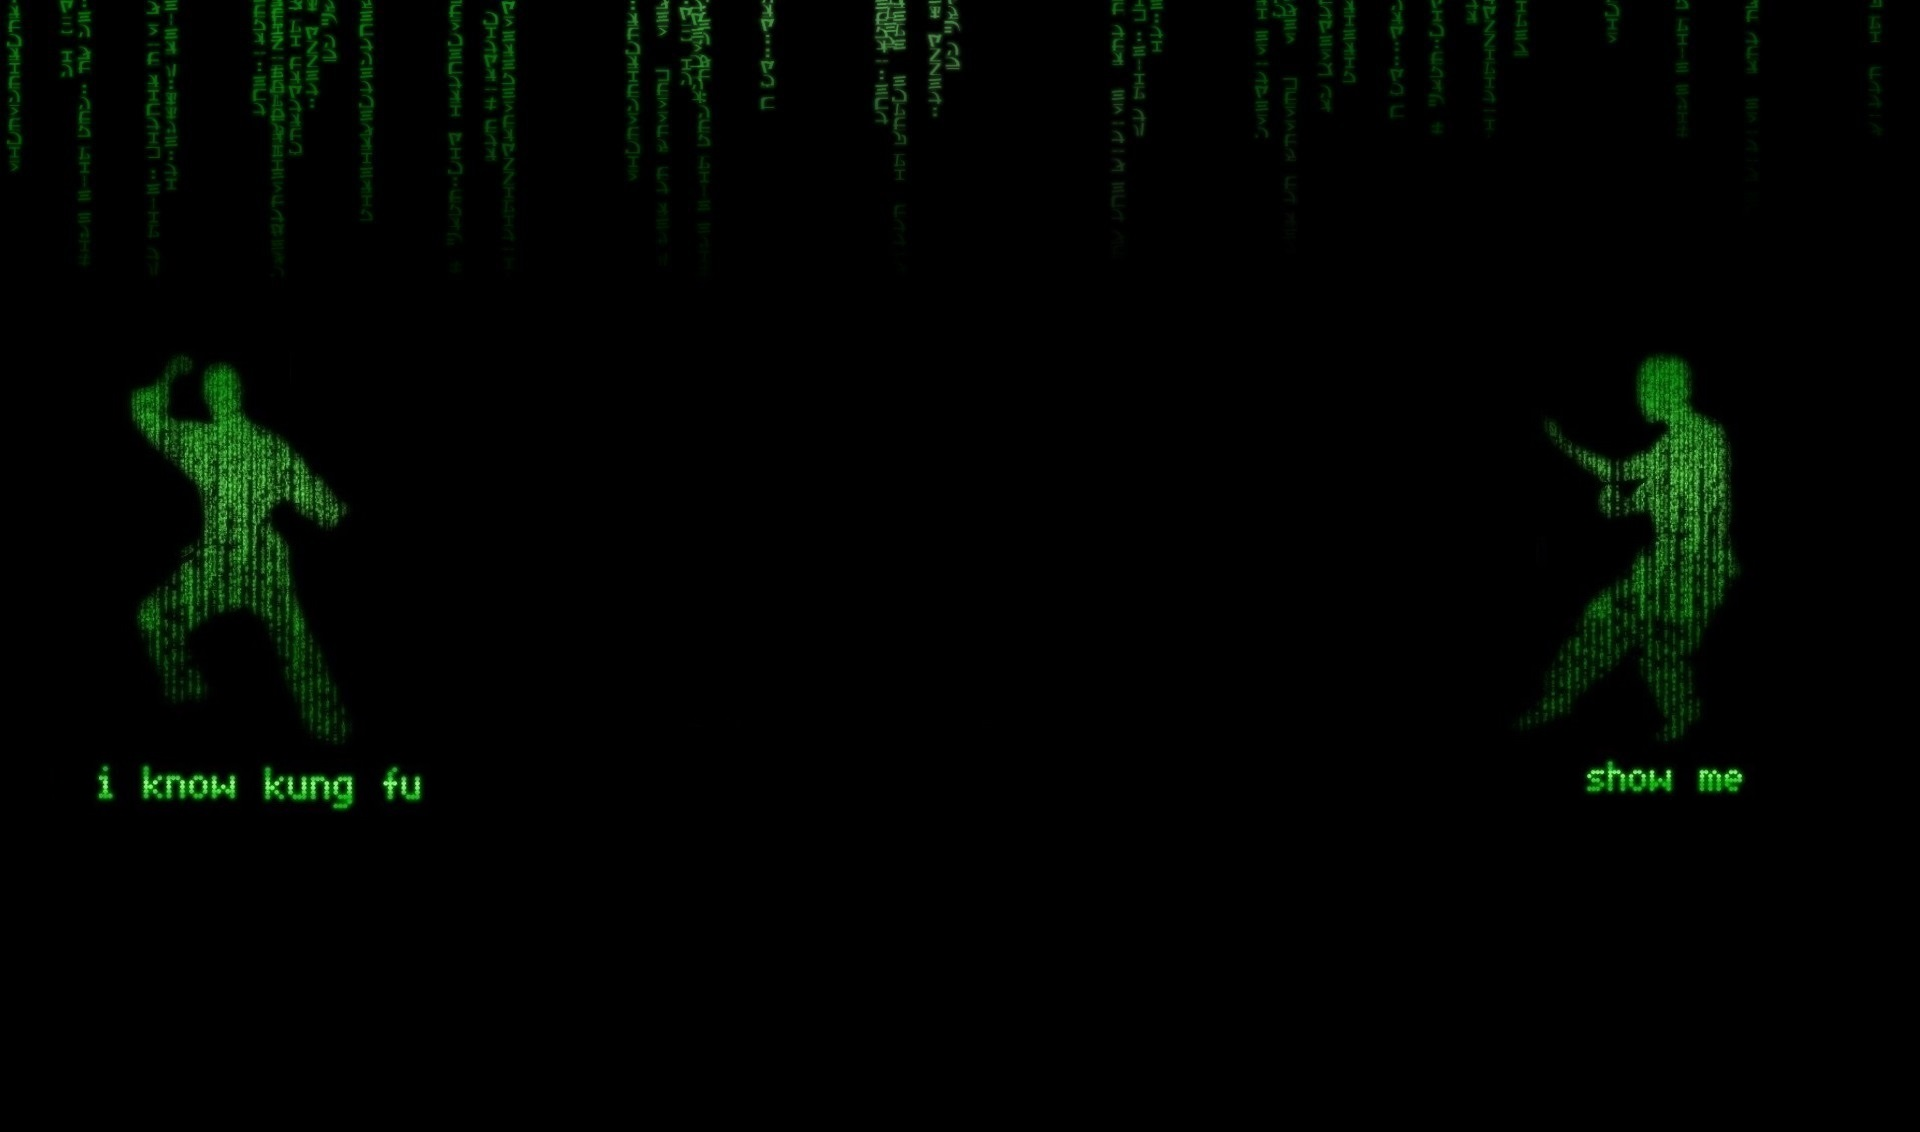
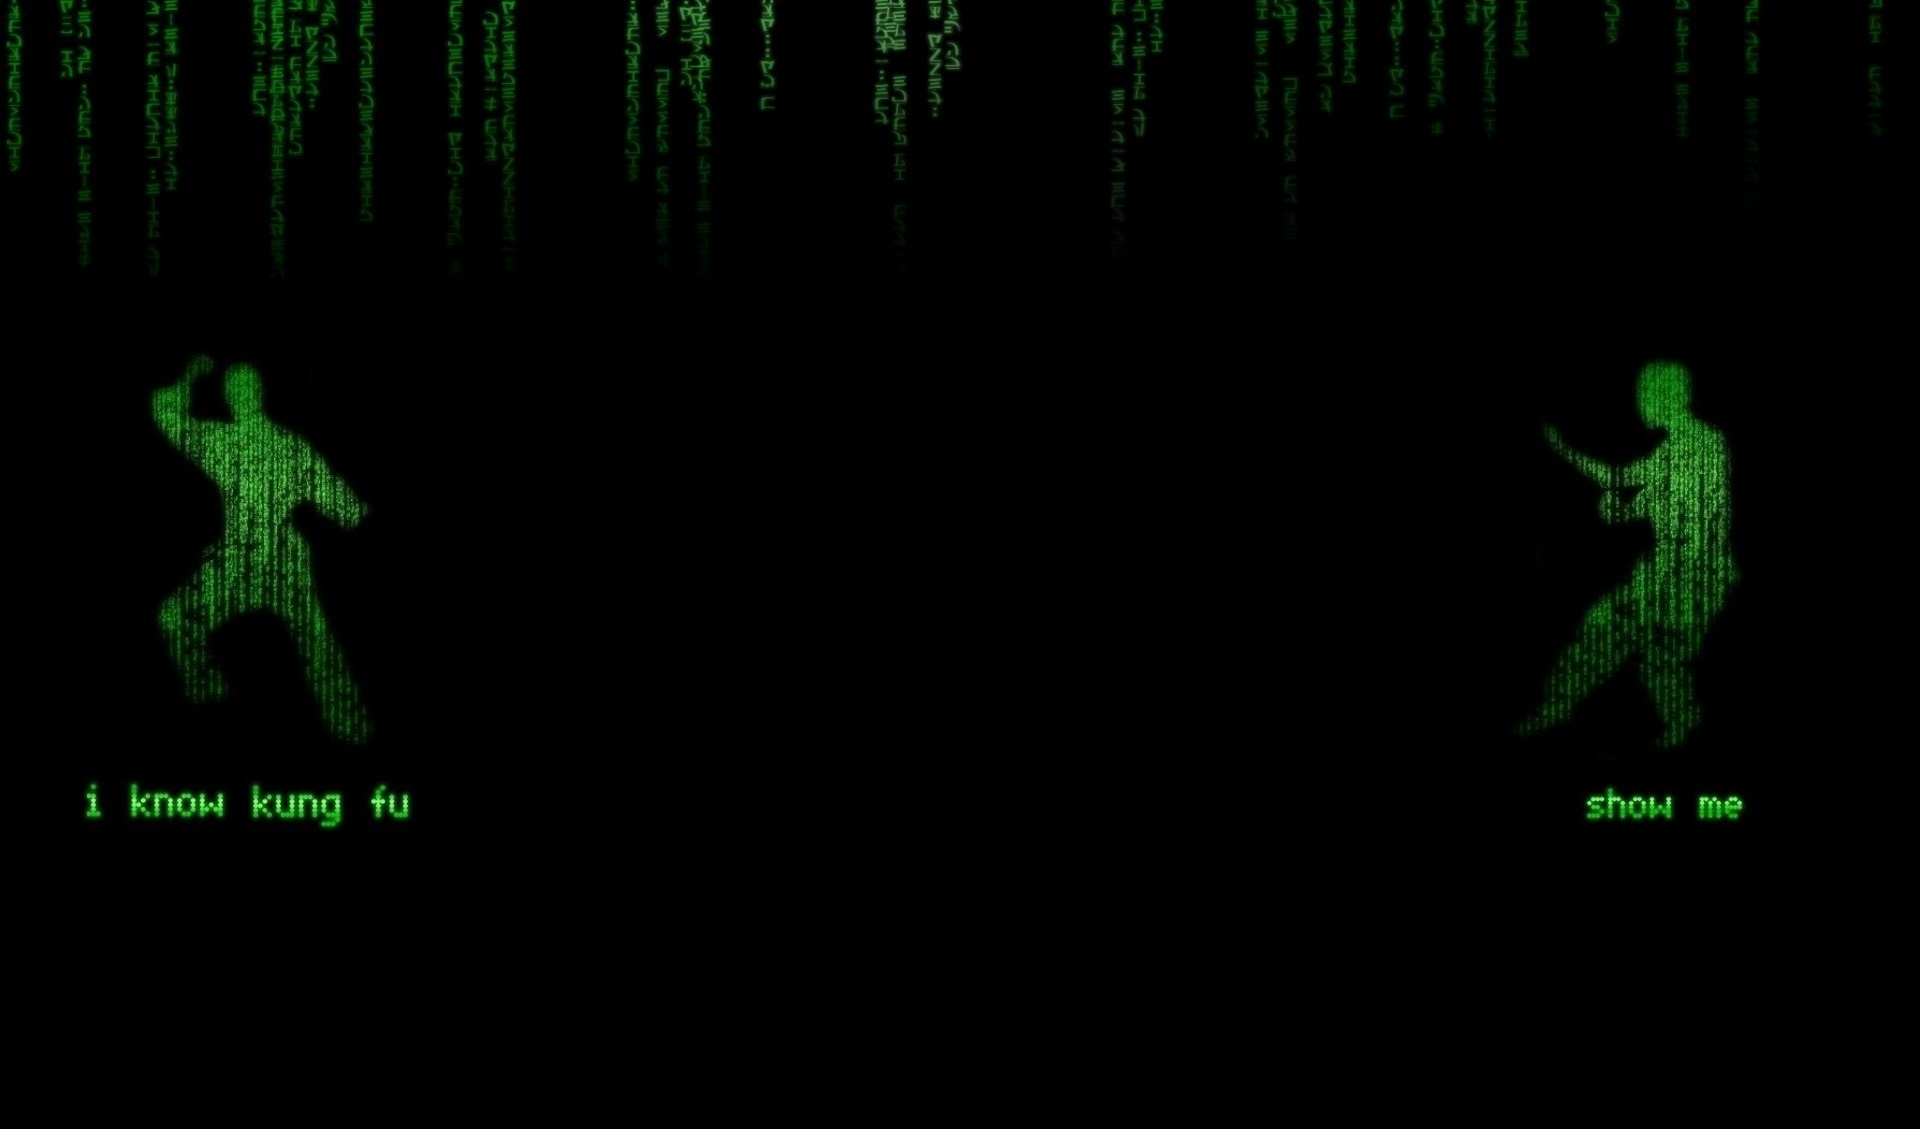
set timer and turn pages

diff --git a/index.html b/index.html
@@ -1,4 +1,4 @@
-<!-- Isaac Wu Crystal Collector Game -->
+<!-- Isaac Wu Trivia Game -->
 
 <!DOCTYPE html>
 <html>
@@ -20,8 +20,7 @@
     <script src="https://stackpath.bootstrapcdn.com/bootstrap/4.1.3/js/bootstrap.min.js" integrity="sha384-ChfqqxuZUCnJSK3+MXmPNIyE6ZbWh2IMqE241rYiqJxyMiZ6OW/JmZQ5stwEULTy"
         crossorigin="anonymous"></script>
     <!-- google fonts -->
-    <link href="https://fonts.googleapis.com/css?family=Bungee+Inline|Finger+Paint|Freckle+Face|Press+Start+2P|Sigmar+One|Titan+One"
-        rel="stylesheet">
+    <link href="https://fonts.googleapis.com/css?family=Black+Ops+One|Chakra+Petch|Jockey+One|Kelly+Slab" rel="stylesheet">
     <!-- fontawesome -->
     <link rel="stylesheet" href="https://use.fontawesome.com/releases/v5.4.2/css/all.css" integrity="sha384-/rXc/GQVaYpyDdyxK+ecHPVYJSN9bmVFBvjA/9eOB+pb3F2w2N6fc5qB9Ew5yIns"
         crossorigin="anonymous">
@@ -32,44 +31,59 @@
 </head>
 
 <body>
-
-
     <div class="container">
-        <!-- <button class="startbutton"></button> -->
         <div class="row">
-            <div class="col-lg-12 nav-pic">
+            <div class="col-lg-12 matrix-pic-table">
                 <img src="assets/images/The_Matrix_logo.png" class="matrix-pic" alt="The_Matrix">
             </div>
         </div>
 
         <div class="row">
-            <div class="col-lg-2 placeholder-left"></div>
-            <div class="col-lg-8 quiz-table">
-                <div class="time-left">
+            <div class="col-lg-12">
+                <div class="time-left">Seconds: 10</div>
+            </div>
+        </div>
 
+        <div class="row">
+            <div class="col-lg-2 placeholder-left">
+            </div>
+
+            <div class="col-lg-8 quiz-table">
+                <!-- start page -->
+                <div class="start-button">
+                    <button type="button" class="btn btn-success btn-lg text-light"> START GAME </button>
                 </div>
-                <div class="card question">
+
+                <!-- quiz page -->
+                <div class="card question-page">
                     <div class="card-body bg-secondary text-white">
                         Lorem ipsum dolor sit amet consectetur adipisicing elit. Odit provident rerum dicta veniam aut
                         dolorum temporibus accusamus ipsum nobis doloremque vel facere fugiat, molestiae tenetur
                         impedit obcaecati similique maiores expedita. </div>
                 </div>
-                <div class="option">
-                    <button type="button" class="btn btn-dark btn-lg btn-block option1">Block level button</button>
-                    <button type="button" class="btn btn-dark btn-lg btn-block option2">Block level button</button>
-                    <button type="button" class="btn btn-dark btn-lg btn-block option3">Block level button</button>
-                    <button type="button" class="btn btn-dark btn-lg btn-block option4">Block level button</button>
+                <div class="option-buttons">
+                    <button type="button" class="btn btn-dark btn-lg btn-block opt">A. <span id="opta"></span></button>
+                    <button type="button" class="btn btn-dark btn-lg btn-block opt">B. <span id="optb"></span></button>
+                    <button type="button" class="btn btn-dark btn-lg btn-block opt">C. <span id="optc"></span></button>
+                    <button type="button" class="btn btn-dark btn-lg btn-block opt">D. <span id="optd"></span></button>
                 </div>
+                <!-- check answer page -->
+                <div class="answer-page">
+                    <div class="response">Your are: Correct</div>
+                    <div class="answer">The answer is:</div>
+                    <div class="answer-gif">gif:</div>
+                </div>
+                <!-- score page -->
+                <div class="result-page">
+                    <div class="result">result:</div>
+                    <div class="wins">wins:</div>
+                    <div class="losses">Losses:</div>
+                </div>
+                <!-- <button class="startoverbutton"></button> -->
             </div>
         </div>
 
 
-        <!-- <div class="row">
-                <div class="col-lg-12 resultpage">
-                    <div class="result">Your Total Scores:</div>
-                    <div class="wins"></div>
-                    <div class="losses"></div>
-                    <button class="startoverbutton"></button> -->
 
     </div>
 

diff --git a/assets/javascript/app.js b/assets/javascript/app.js
@@ -1,0 +1,134 @@
+// Isaac Wu Trivia Game
+
+// See QnA at the end...
+
+function startgame() {
+    $(".time-left, .question-page, .option-buttons, .answer-page, .result-page").hide();
+
+    // Click Start and turn to quiz page
+    $(".start-button").on("click", function () {
+        $(".start-button").hide();
+        $(".time-left, .question-page, .option-buttons").show();
+        dNumber = 10;
+    })
+};
+startgame();
+
+
+// start number from:
+var dNumber = 11;
+
+// set time interval rule:
+var interval = setInterval(funDecement, 1000)
+
+// time decement function:
+function funDecement() {
+    dNumber--;
+    $(".time-left").html("Second: " + dNumber);
+
+    /////////////// if No Click: ///////////////
+    //when time up:
+    if (dNumber === -1) {
+        function answercheck() {
+            //show answer page
+            $(".option-buttons").hide();
+            $(".answer-page").show();
+
+            // stop time decement
+            clearInterval(interval);
+            dNumber = 10;
+            $(".time-left").html("Second: " + dNumber);
+
+            // set 5-second read-answer-time then jump to next question
+            setTimeout(function () {
+                $(".option-buttons").show();
+                $(".answer-page").hide();
+                //restart time decement
+                interval = setInterval(funDecement, 1000);
+            }, 1000 * 5)
+        } answercheck();
+    }
+} funDecement();
+
+/////////////// if Click: ///////////////
+$(".option-buttons").on("click", function () {
+
+    //show answer page
+    $(".option-buttons").hide();
+    $(".answer-page").show();
+
+    // stop time decement
+    clearInterval(interval);
+    dNumber = 10;
+    $(".time-left").html("Second: " + dNumber);
+
+    // set 5-second read-answer-time then jump to next question
+    setTimeout(function () {
+        $(".option-buttons").show();
+        $(".answer-page").hide();
+        //restart time decement
+        interval = setInterval(funDecement, 1000);
+    }, 1000 * 5)
+});
+
+// show Right Answer picture function:
+
+
+// Score Page
+
+
+
+
+/////////////// QnA //////////////////
+// All questions array:
+var questionArray = [
+    "q1",
+    "q2",
+    "q3",
+    "",
+    "",
+    "",
+];
+
+// All options array:
+var optaArray = [
+    "oa1",
+    "oa2",
+    "oa3",
+    "",
+    "",
+    "",
+];
+
+var optbArray = [
+    "ob1",
+    "ob2",
+    "",
+    "",
+    "",
+    "",
+];
+
+var optcArray = [
+    "oc1",
+    "oc2",
+    "",
+    "",
+    "",
+    "",
+];
+
+var optdArray = [
+    "od1",
+    "od2",
+    "",
+    "",
+    "",
+    "",
+];
+
+var answerArray = [3, 2, 1, 3, 4];
+
+var gifArray = [];
+
+var audioArray = [];

diff --git a/assets/css/style.css b/assets/css/style.css
@@ -1,41 +1,71 @@
+/* Isaac Wu Trivia Game */
+
 body{
     background-attachment: fixed;
     background-size: cover;
     background-image: url(../images/The-Matrix.jpg)
 }
 
-.nav-pic{
+.matrix-pic-table{
     position: fixed;
     text-align: center;
 }
 
 .matrix-pic{
     width: 40%;
-    margin: 30px;
+    margin: 20px 0 0;
+}
+
+.time-left{
+    font-family: 'Kelly Slab', cursive;
+    color: rgb(0, 175, 0);
+    font-size: 20px;
+    font-weight: bolder;
+    width: 100%;
+    text-align: center;
+    padding: 0 0 30px;
 }
 
 .quiz-table{
-    height: 400px;
+    height: 100%;
     background-image: url(../images/wallpaper2you_248928.gif);
     background-size: contain;
 }
 
-.question{
+.start-button{
+    width: 100%;
+    text-align: center;
+    margin-top: 20px;
+    padding: 150px;
+    opacity: .8;
+    font-family: 'Kelly Slab', cursive;
+}
+
+.question-page{
     margin:20px;
     opacity: .9;
 }
 
-.option{
-    margin:10px 80px 0px;
+.option-buttons{
+    margin:20px 60px;
     opacity: .9;
     }
 
+.answer-page{
+    color: white;
+    text-align: center;
+    margin-top: 20px;
+    padding: 50px;
+    font-family: 'Kelly Slab', cursive;
+}
+
 footer {
-    position: fixed;
+    /* position: fixed; */
     width: 100%;
     bottom: 0px;
+    padding: 30px;
     text-align: center;
     font-size: 14px;
-    color: rgb(255, 255, 255);
+    color: rgb(0, 175, 0);
     height: 40px;
     }
